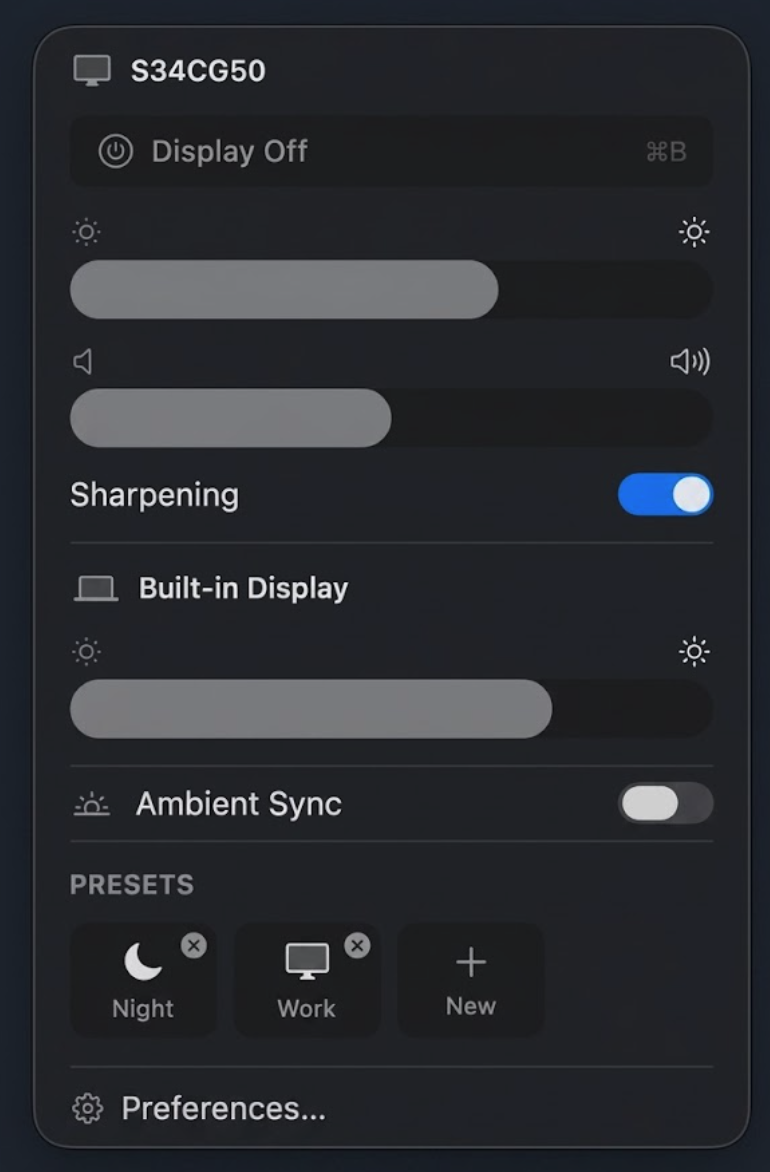
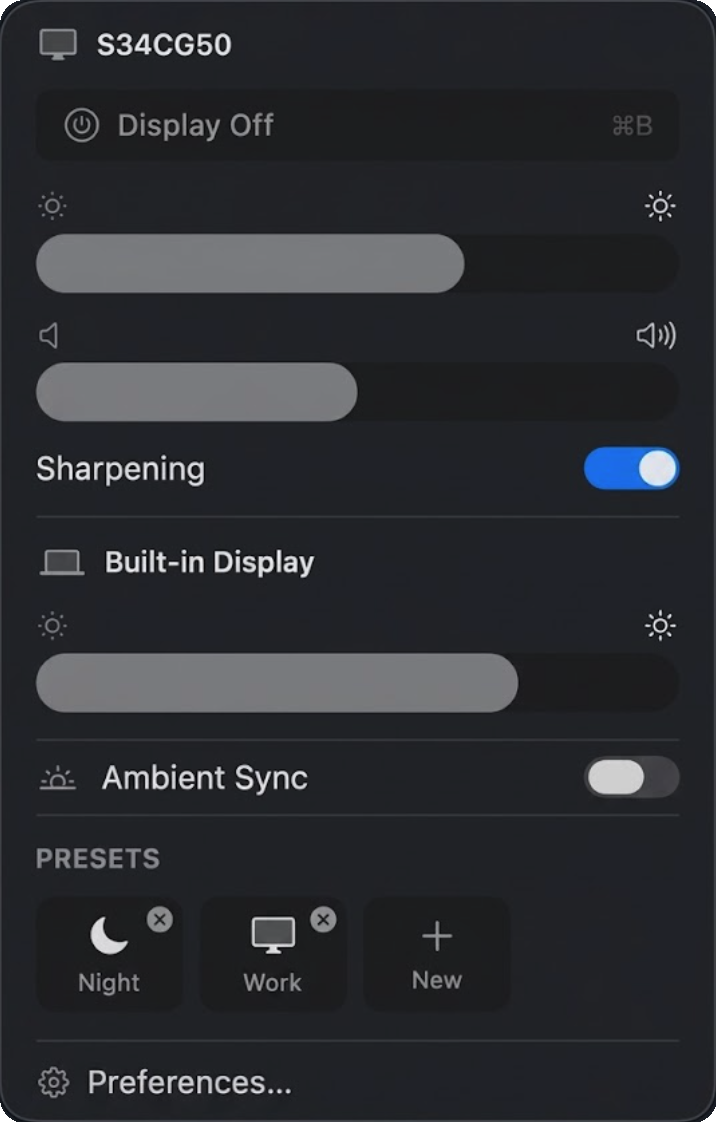
chore: cut out screenshot bg, use drop-shadow glow

diff --git a/components/Hero.tsx b/components/Hero.tsx
@@ -71,12 +71,12 @@ export function Hero() {
         transition={{ duration: 0.9, delay: 0.4, ease: "easeOut" }}
         className="relative mx-auto max-w-[420px]"
       >
-        <div className="screenshot-glow rounded-[22px] overflow-hidden">
+        <div className="screenshot-glow">
           <Image
             src="/screenshot.png"
             alt="Cidra menu bar panel"
-            width={840}
-            height={1200}
+            width={716}
+            height={1122}
             priority
             className="w-full h-auto"
           />

diff --git a/app/globals.css b/app/globals.css
@@ -54,8 +54,7 @@ html, body {
 }
 
 .screenshot-glow {
-  box-shadow:
-    0 0 0 1px rgba(255,255,255,0.06),
-    0 30px 80px -20px rgba(10, 132, 255, 0.25),
-    0 0 120px -10px rgba(10, 132, 255, 0.15);
+  filter:
+    drop-shadow(0 30px 60px rgba(10, 132, 255, 0.25))
+    drop-shadow(0 0 80px rgba(10, 132, 255, 0.12));
 }
